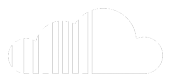
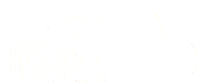
more changes

diff --git a/app/assets/stylesheets/bootstrap_and_customization.css.scss b/app/assets/stylesheets/bootstrap_and_customization.css.scss
@@ -66,7 +66,7 @@ margin-top: -28px;
 }
 
 .homelogo:hover {
-  content: url(images/uhlogo-hover.png);
+  content: url(http://i.imgur.com/ID7KnkP.png);
   vertical-align: middle;
   margin-top: -28px;
   height: 82px;
@@ -74,7 +74,7 @@ margin-top: -28px;
 }
 
 .twitterlogo:hover {
-  content: url(images/twitter-hover.png);
+  content: url(http://i.imgur.com/Z9xPOEA.png);
   vertical-align: middle;
   margin-top: -28px;
   height: 82px;
@@ -82,7 +82,7 @@ margin-top: -28px;
 }
 
 .instagramlogo:hover {
-  content: url(images/instagram-hover.png);
+  content: url(http://i.imgur.com/7OjSSJc.png);
   vertical-align: middle;
   margin-top: -28px;
   height: 82px;
@@ -90,11 +90,11 @@ margin-top: -28px;
 }
 
 .soundcloudlogo:hover {
-  content: url(images/soundcloud-hover.png);
+  content: url(http://i.imgur.com/UEFyBCi.png);
   vertical-align: middle;
   margin-top: -28px;
   height: 82px;
-  width: 171px;
+  width: 205px;
 }
 
 .shop {
